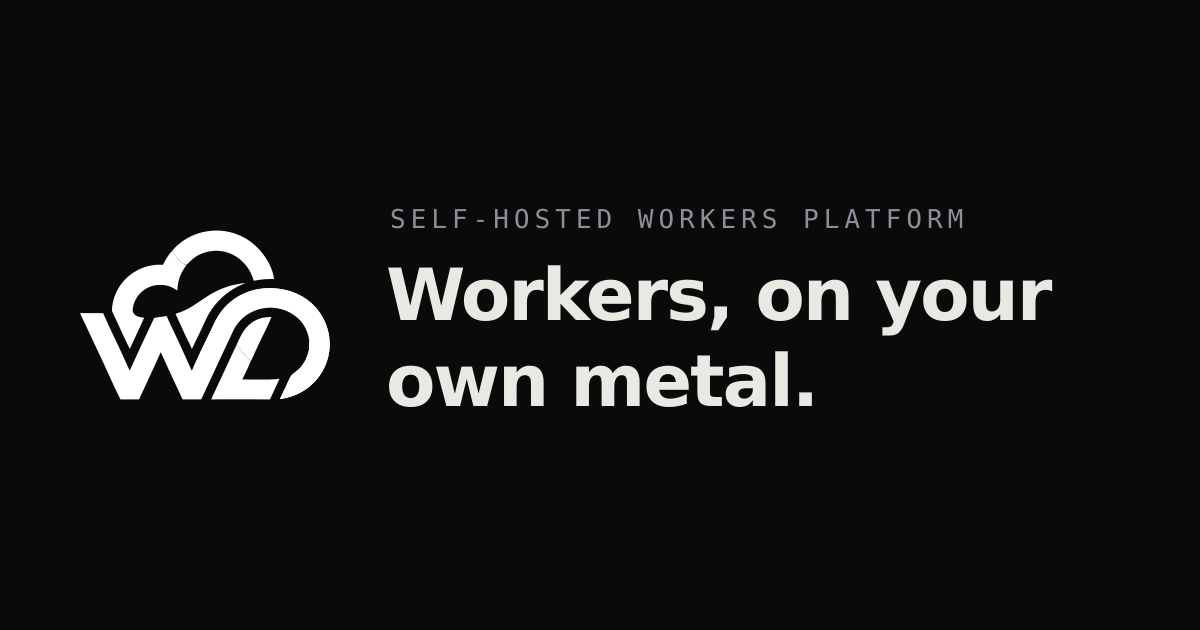
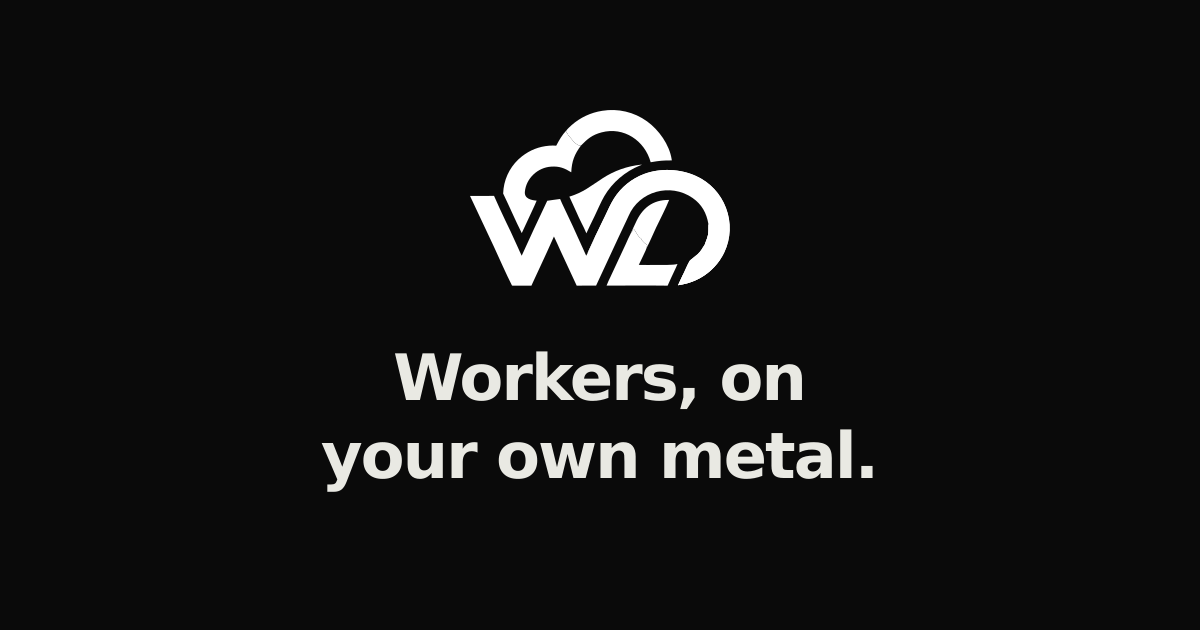
feat: refine site branding and update dependencies
- Refresh the canonical WDL mark, hero watermark, and social preview.
- Group repositories into Core and Ecosystem and improve Reader Mode extraction.
- Fix text contrast, mobile reflow, and the worker-specific health endpoint.
- Upgrade @wdl-dev/cli to 1.4.1 and Wrangler to 4.111.0.

diff --git a/src/index.js b/src/index.js
@@ -3,6 +3,7 @@ const ORG = "https://github.com/wdl-dev";
 const REPOS = [
   {
     name: "wdl",
+    group: "Core",
     role: "platform",
     blurb:
       "The multi-tenant Workers platform, built on stock Cloudflare workerd with " +
@@ -18,6 +19,7 @@ const REPOS = [
   },
   {
     name: "cli",
+    group: "Core",
     role: "cli",
     blurb:
       "Ships your code to a WDL platform. Bundles the project with Wrangler v4, uploads " +
@@ -30,7 +32,21 @@ const REPOS = [
     ],
   },
   {
+    name: "aws-sigv4",
+    group: "Core",
+    role: "library",
+    blurb:
+      "A small, zero-dependency AWS SigV4 signer for web-standard runtimes and " +
+      "S3-compatible storage — a `SigV4Client` with sign() and fetch(), and nothing else.",
+    meta: "TypeScript · npm",
+    links: [
+      { label: "GitHub", href: `${ORG}/aws-sigv4` },
+      { label: "npm", href: "https://www.npmjs.com/package/@wdl-dev/aws-sigv4" },
+    ],
+  },
+  {
     name: "chat",
+    group: "Ecosystem",
     role: "product",
     blurb:
       "A WDL Worker that builds WDL Workers — an AI agent that turns one line into a " +
@@ -43,19 +59,8 @@ const REPOS = [
     ],
   },
   {
-    name: "aws-sigv4",
-    role: "library",
-    blurb:
-      "A small, zero-dependency AWS SigV4 signer for web-standard runtimes and " +
-      "S3-compatible storage — a `SigV4Client` with sign() and fetch(), and nothing else.",
-    meta: "TypeScript · npm",
-    links: [
-      { label: "GitHub", href: `${ORG}/aws-sigv4` },
-      { label: "npm", href: "https://www.npmjs.com/package/@wdl-dev/aws-sigv4" },
-    ],
-  },
-  {
     name: "site",
+    group: "Ecosystem",
     role: "site",
     blurb:
       "This page — a single WDL Worker scaffolded with `wdl init`. It renders its own " +
@@ -71,6 +76,8 @@ const DESCRIPTION =
   "with its CLI, AI worker builder, and libraries.";
 
 const SITE_URL = "https://wdl.dev/";
+// The WDL gateway owns /healthz on custom domains, so use a worker-specific path.
+const HEALTH_PATH = "/_worker-healthz";
 const SHARE_TEXT = "WDL — self-hosted Workers platform on stock workerd";
 const SHARE_LINKS = [
   {
@@ -89,6 +96,7 @@ const SHARE_LINKS = [
 
 const COUNT_WORDS = ["zero", "one", "two", "three", "four", "five", "six", "seven", "eight", "nine", "ten"];
 const repoCount = COUNT_WORDS[REPOS.length] ?? REPOS.length;
+const GROUPS = [...new Set(REPOS.map((repo) => repo.group))];
 
 const escape = (s) =>
   String(s).replace(/[&<>"]/g, (c) => ({ "&": "&amp;", "<": "&lt;", ">": "&gt;", '"': "&quot;" }[c]));
@@ -106,17 +114,19 @@ const linkRow = (links) =>
     )
     .join("");
 
-const repoRow = (repo) => `<article class="repo">
-        <div class="repo-role"><span class="dot" aria-hidden="true"></span>${escape(repo.role)}</div>
-        <div class="repo-body">
-          <h3 class="repo-name">${escape(repo.name)}</h3>
+const repoRow = (repo) => `<div class="repo">
+          <h4 class="repo-name">${escape(repo.name)}</h4>
+          <small class="repo-role">${escape(repo.role)}</small>
           <p class="repo-blurb">${richText(repo.blurb)}</p>
           <div class="repo-foot">
             <span class="repo-links">${linkRow(repo.links)}</span>
             <span class="repo-meta">${escape(repo.meta)}</span>
           </div>
-        </div>
-      </article>`;
+        </div>`;
+
+// Keep both groups in one extractable block for Edge Reading Mode.
+const repoGroup = (group) => `<div class="repo-group-label" role="heading" aria-level="3"><strong>${escape(group)}</strong></div>
+        ${REPOS.filter((repo) => repo.group === group).map(repoRow).join("\n        ")}`;
 
 const page = ({ cssUrl, faviconUrl, ogImageUrl }) => `<!DOCTYPE html>
 <html lang="en">
@@ -141,22 +151,24 @@ const page = ({ cssUrl, faviconUrl, ogImageUrl }) => `<!DOCTYPE html>
 </head>
 <body>
   <div class="wrap">
-    <section class="hero">
-      <p class="eyebrow">Self-hosted Workers platform</p>
-      <h1>Workers, on your own metal.</h1>
-      <p class="sub">WDL runs Cloudflare&nbsp;Workers&ndash;shaped code on stock
-        <b>workerd</b> — multi-tenant, immutable, and namespaced to&nbsp;you.</p>
-      <div class="inset" role="img"
-           aria-label="Scaffold a worker named WDL, deploy it, then curl https://demo.wdl.sh/WDL">
-        <div class="line"><span class="prompt">$ </span>wdl init . --worker <span class="slot">WDL</span></div>
-        <div class="line"><span class="prompt">$ </span>wdl deploy .</div>
-        <div class="line"><span class="prompt">$ </span>curl https://<span class="slot">demo</span>.wdl.sh/<span class="slot">WDL</span></div>
-      </div>
-    </section>
-
     <main>
-      <h2 class="repos-head">${escape(repoCount)} repositories</h2>
-      ${REPOS.map(repoRow).join("\n      ")}
+      <article aria-labelledby="page-title">
+        <div class="hero">
+          <p class="eyebrow">Self-hosted Workers platform</p>
+          <h1 id="page-title">Workers, on your own metal.</h1>
+          <p class="sub">WDL runs Cloudflare&nbsp;Workers&ndash;shaped code on stock
+            <b>workerd</b> — multi-tenant, immutable, and namespaced to&nbsp;you.</p>
+          <div class="inset" role="img"
+               aria-label="Scaffold a worker named WDL, deploy it, then curl https://demo.wdl.sh/WDL">
+            <div class="line"><span class="prompt">$ </span>wdl init . --worker <span class="slot">WDL</span></div>
+            <div class="line"><span class="prompt">$ </span>wdl deploy .</div>
+            <div class="line"><span class="prompt">$ </span>curl https://<span class="slot">demo</span>.wdl.sh/<span class="slot">WDL</span></div>
+          </div>
+        </div>
+
+        <h2 class="repos-head">${escape(repoCount)} repositories</h2>
+        ${GROUPS.map(repoGroup).join("\n        ")}
+      </article>
     </main>
 
     <footer>
@@ -191,8 +203,13 @@ const page = ({ cssUrl, faviconUrl, ogImageUrl }) => `<!DOCTYPE html>
 export default {
   async fetch(request, env) {
     const { pathname } = new URL(request.url);
-    if (pathname === "/healthz") {
-      return new Response("ok", { headers: { "content-type": "text/plain" } });
+    if (pathname === HEALTH_PATH) {
+      return new Response("ok", {
+        headers: {
+          "content-type": "text/plain; charset=utf-8",
+          "cache-control": "no-store",
+        },
+      });
     }
     if (pathname !== "/") {
       return new Response("Not found\n", {

diff --git a/public/styles.css b/public/styles.css
@@ -3,12 +3,13 @@
   --raised: #f3f3ee;
   --ink: #15171c;
   --muted: #5a5f67;
-  --faint: #8b9099;
+  --faint: #62676f;
   --line: #d4d4cd;
   --accent: #2436e8;
   --inset-bg: #14161a;
   --inset-fg: #e8e8e2;
   --inset-muted: #8a8f99;
+  --inset-accent: #7b8fff;
   --col: 46rem;
   /* One column for the whole page: content width == --col, so the command
      box, the section divider, and the repo rows all share the same edges. */
@@ -22,7 +23,7 @@
     --raised: #15171c;
     --ink: #e9e9e3;
     --muted: #9298a1;
-    --faint: #6a6f78;
+    --faint: #7a7f88;
     --line: #23252c;
     --accent: #7b8fff;
     --inset-bg: #05060a;
@@ -45,7 +46,20 @@ body {
 a { color: inherit; }
 
 /* ---- hero ---- */
-.hero { padding: 44px 0 40px; }
+.hero { position: relative; overflow: clip; padding: 44px 0 40px; }
+.hero > * { position: relative; z-index: 1; }
+.hero::before {
+  content: "";
+  position: absolute; z-index: 0;
+  top: clamp(1.5rem, 5vw, 4rem);
+  right: 0;
+  width: clamp(14.6rem, 31.25vw, 25rem); aspect-ratio: 265 / 176;
+  background: url("hero-w.svg") center / contain no-repeat;
+  opacity: 0.03; pointer-events: none;
+}
+@media (prefers-color-scheme: dark) {
+  .hero::before { filter: invert(1); opacity: 0.04; }
+}
 .eyebrow {
   font: 500 0.74rem/1 var(--mono); letter-spacing: 0.18em; text-transform: uppercase;
   color: var(--accent); margin: 0 0 22px;
@@ -69,41 +83,57 @@ h1 {
 }
 .inset .line { white-space: nowrap; }
 .inset .prompt { color: var(--inset-muted); user-select: none; }
-.inset .slot { color: var(--accent); }
+.inset .slot { color: var(--inset-accent); }
 
 /* ---- repos registry ---- */
 .repos-head {
   font: 500 0.74rem/1 var(--mono); letter-spacing: 0.18em; text-transform: uppercase;
   color: var(--faint); margin: 0; padding: 0 0 4px; border-bottom: 1px solid var(--line);
 }
+.repo-group-label {
+  font: 500 0.68rem/1 var(--mono); letter-spacing: 0.16em; text-transform: uppercase;
+  color: var(--muted); margin: 0; padding: 14px 0 0;
+}
+.repo-group-label strong { font-weight: inherit; }
+.repo + .repo-group-label { margin-top: 10px; }
+.repo-group-label + .repo { padding-top: 18px; }
 .repo {
-  display: grid; grid-template-columns: 96px 1fr; gap: 8px 24px;
+  display: grid; grid-template-columns: 96px 1fr;
+  grid-template-areas: "role name" "role blurb" "role foot";
+  column-gap: 24px;
   padding: 28px 0; border-bottom: 1px solid var(--line);
 }
 .repo-role {
+  grid-area: role;
   font: 500 0.82rem/1.4 var(--mono); color: var(--muted);
   display: grid; grid-template-columns: auto 1fr; align-items: center;
   column-gap: 9px; text-align: center;
 }
-.dot {
+.repo-role::before {
+  content: "";
   width: 7px; height: 7px; border-radius: 50%;
   background: var(--line); flex: none; transition: background 0.18s ease;
 }
-.repo:hover .dot { background: var(--accent); }
+.repo:hover .repo-role::before { background: var(--accent); }
 .repo-name {
+  grid-area: name;
   font: 600 1.5rem/1 var(--mono); margin: 0 0 12px; letter-spacing: -0.02em;
 }
-.repo-blurb { margin: 0; color: var(--ink); opacity: 0.9; max-width: 56ch; text-wrap: pretty; }
+.repo-blurb {
+  grid-area: blurb;
+  margin: 0; color: var(--ink); opacity: 0.9; max-width: 56ch; text-wrap: pretty;
+}
 .repo-blurb code {
   font: 0.9em/1 var(--mono); background: var(--raised);
   padding: 1px 5px; border-radius: 4px;
 }
 .repo-foot {
+  grid-area: foot;
   display: flex; align-items: baseline; justify-content: space-between;
   gap: 16px; flex-wrap: wrap; margin-top: 18px;
 }
 .repo-meta { font: 0.8rem/1 var(--mono); color: var(--faint); }
-.repo-links { display: flex; gap: 18px; }
+.repo-links { display: flex; gap: 10px 18px; flex-wrap: wrap; }
 .link {
   font: 550 0.9rem/1 var(--sans); text-decoration: none; white-space: nowrap;
   border-bottom: 1px solid transparent; padding-bottom: 2px;
@@ -134,6 +164,10 @@ a:focus-visible, button:focus-visible {
 
 @media (max-width: 560px) {
   .hero { padding: 40px 0 40px; }
-  .repo { grid-template-columns: 1fr; gap: 6px; padding: 24px 0; }
-  .repo-role { display: flex; gap: 9px; margin-bottom: 6px; }
+  .repo {
+    grid-template-columns: 1fr;
+    grid-template-areas: "role" "name" "blurb" "foot";
+    padding: 24px 0;
+  }
+  .repo-role { display: flex; gap: 9px; margin-bottom: 12px; }
 }

diff --git a/README.md b/README.md
@@ -5,18 +5,18 @@ served as a single WDL Worker — and it's [live at wdl.dev](https://wdl.dev).
 
 This is a standard WDL Worker project — scaffolded with `wdl init` and deployed
 through the `wdl` CLI (`npm run deploy` → `wdl deploy .`), the same path any
-tenant uses. `src/index.js` renders the page HTML; the CSS, logo, and favicon
-are served from the **ASSETS** store and resolved at request time with
-`env.ASSETS.url()`. There is no local fallback — develop by deploying and
-testing on the platform.
+tenant uses. `src/index.js` renders the page HTML; static files are served from
+the **ASSETS** store. The Worker resolves the CSS, OG card, and favicon with
+`env.ASSETS.url()`, while the CSS loads its watermark relatively. There is no
+local fallback — develop by deploying and testing on the platform.
 
 ## Layout
 
 ```
 src/index.js             worker entry — renders the page and the repo list
-public/                  ASSETS: styles.css, favicon.svg, og.png
-brand/WDL-black.svg      brand source the favicon and OG image are generated from
-scripts/build-logo.mjs   regenerates public/favicon.svg + public/og.png from brand/WDL-black.svg
+public/                  ASSETS: styles.css, hero-w.svg, favicon.svg, og.png
+brand/WDL-mark.svg       canonical transparent logo mark used by the asset generator
+scripts/build-logo.mjs   regenerates hero-w.svg + favicon.svg + og.png from the canonical mark
 wrangler.jsonc           worker config (assets.directory = ./public, route wdl.dev/*)
 AGENTS.md / CLAUDE.md    pointers to the per-feature docs shipped with @wdl-dev/cli
 ```
@@ -26,8 +26,9 @@ of `src/index.js`. The page styling lives in `public/styles.css`.
 
 ## Brand assets
 
-`public/favicon.svg` and `public/og.png` (the social share card) are generated
-from `brand/WDL-black.svg`. After changing the brand files, regenerate them:
+`brand/WDL-mark.svg` is the canonical, transparent logo geometry. The
+`public/hero-w.svg` watermark, `public/favicon.svg`, and `public/og.png` outputs
+are generated from it. After changing the mark, regenerate them:
 
 ```sh
 npm run build:logo
@@ -38,6 +39,10 @@ npm run build:logo
 Releases go through the `wdl` CLI — not `wrangler deploy` (which targets
 Cloudflare). The `wdl.dev` route is operator-declared; this repo claims it via
 `routes` in `wrangler.jsonc`.
+
+The Worker health endpoint is `https://wdl.dev/_worker-healthz`. Do not use
+`/healthz` on the custom domain: that path is owned by the WDL gateway and
+reports gateway health instead of this Worker.
 
 ```sh
 npm install
